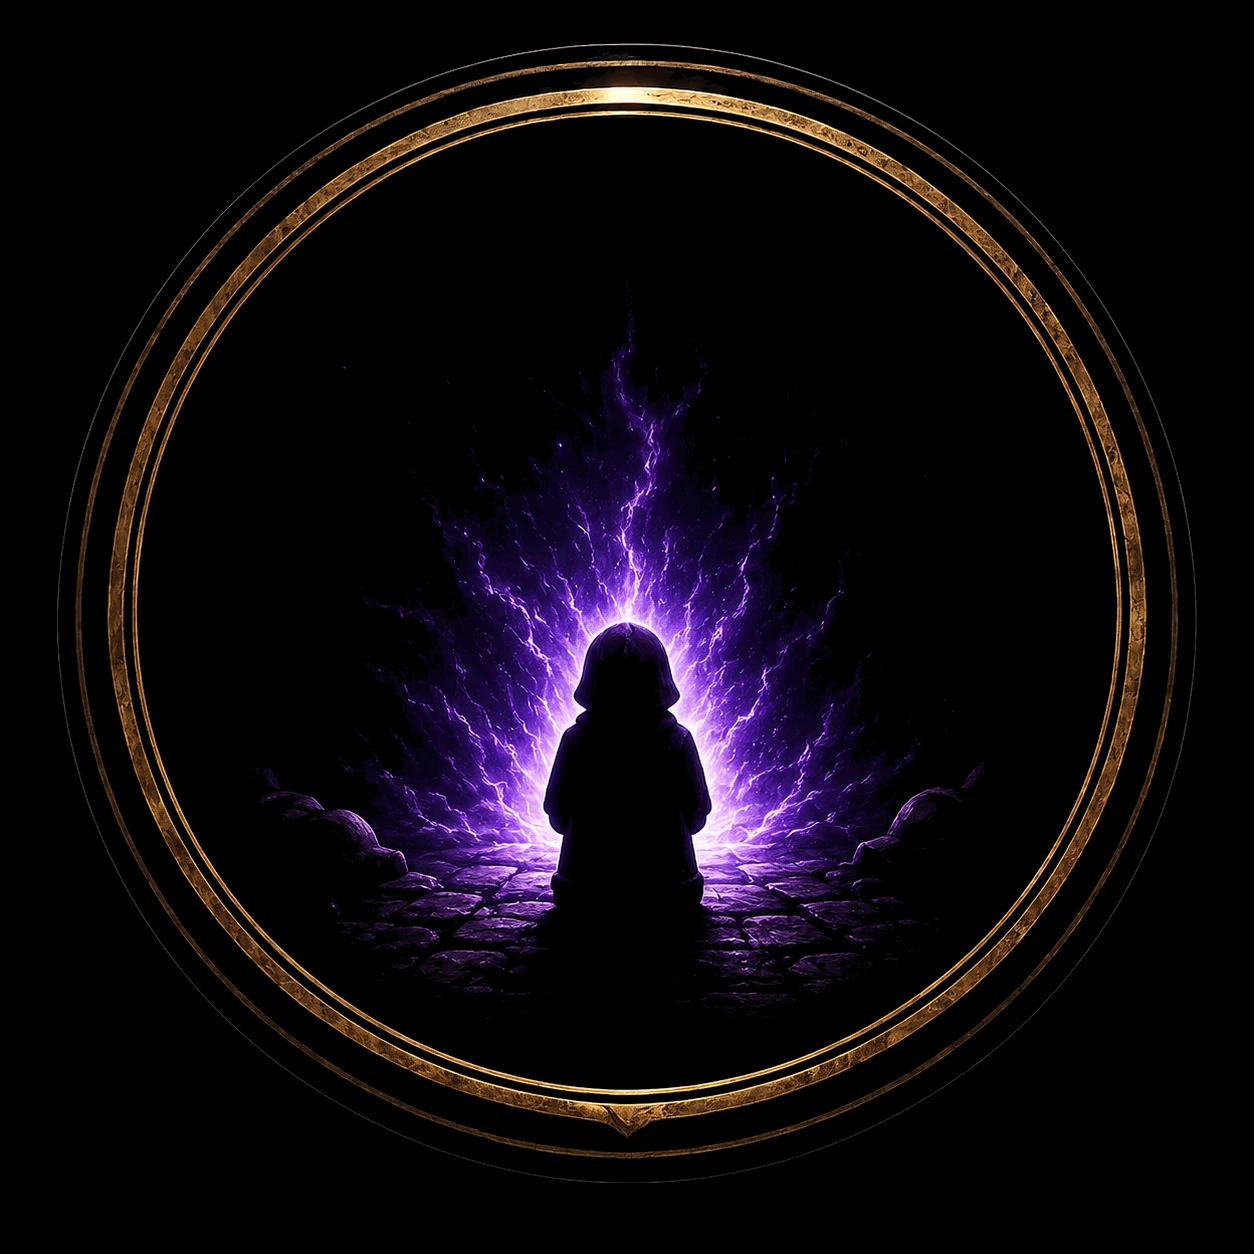
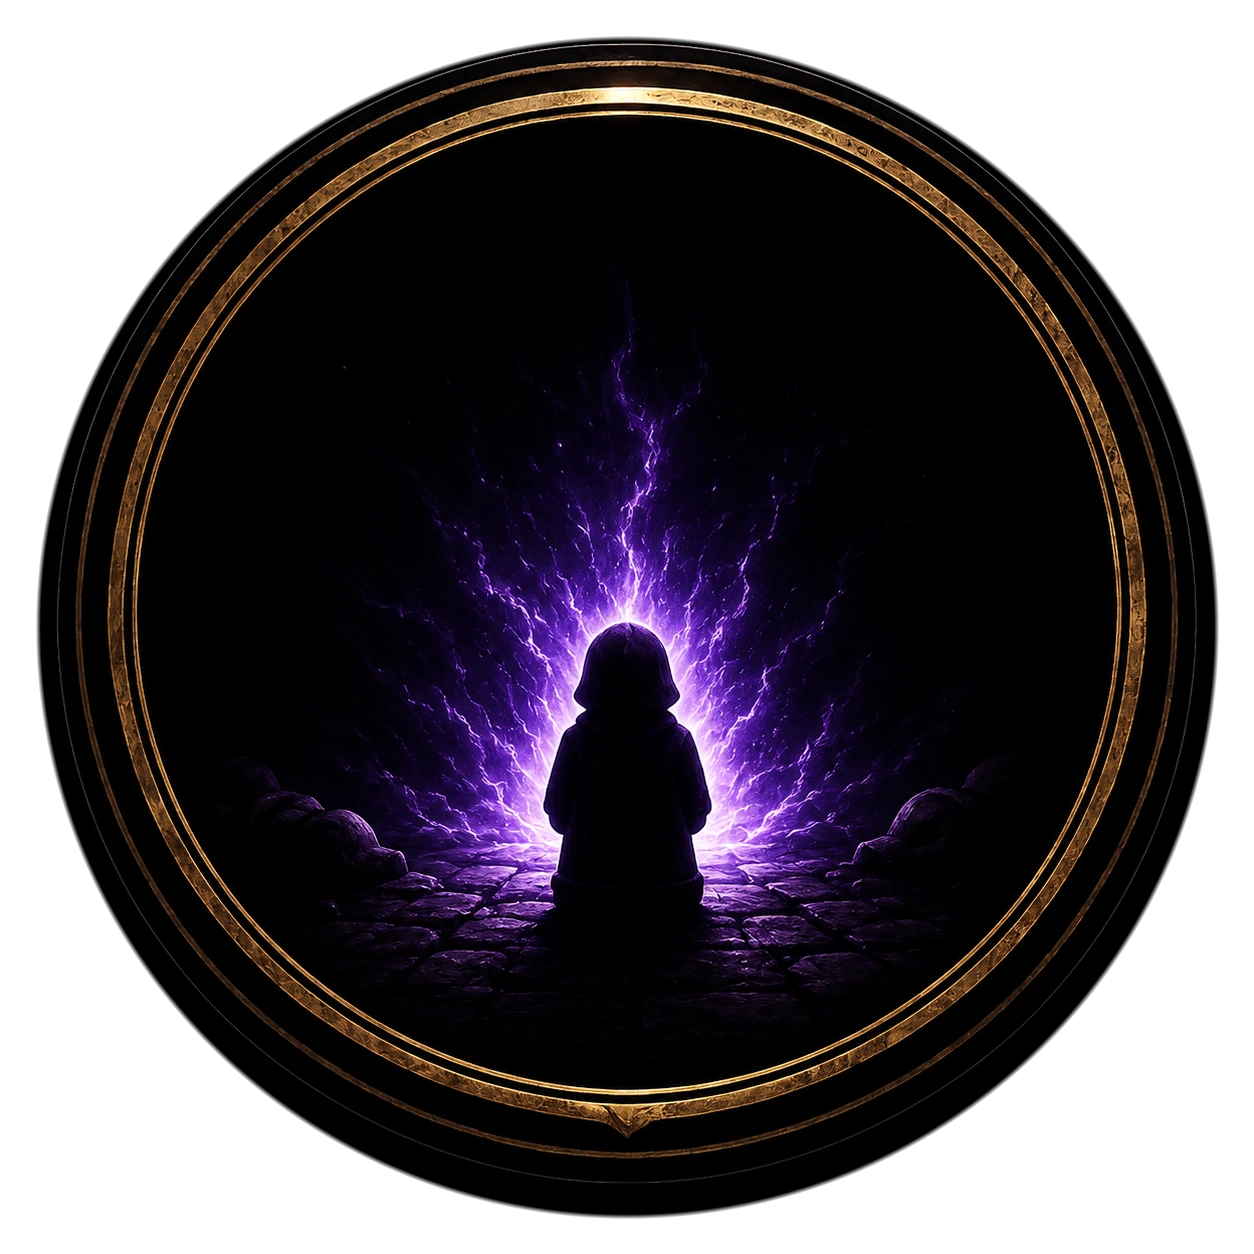
v0.36.3 Drei Schaerfungen am neuen Gewand: Das Zeichen im Kopfbereich ist jetzt RUND FREIGESTELLT - der Goldring wurde vermessen (Radius 589 von 627) und alles ausserhalb mit weichem Rand auf durchsichtig gesetzt, damit keine schwarzen Kanten mehr stehen; es traegt seinen eigenen violetten Schein st

diff --git a/src/app/ui/board/PieceGlyph.jsx b/src/app/ui/board/PieceGlyph.jsx
@@ -30,7 +30,8 @@ function HpDots({ hp, max, side = "left", palette = "life" }) {
       background: "rgba(6,10,16,.7)", borderRadius: 99, overflow: "hidden", pointerEvents: "none",
       boxShadow: "inset 0 0 0 0.5px rgba(255,255,255,.22), inset 0 1px 1px rgba(0,0,0,.5)" }}>
       <span style={{ display: "block", width: "100%", height: `${ratio * 100}%`, borderRadius: 99,
-        background: `linear-gradient(0deg, ${deep} 0%, ${col} 66%, rgba(255,255,255,.4) 100%)`, transition: "height .2s ease" }} />
+        background: `linear-gradient(0deg, ${deep} 0%, ${col} 62%, rgba(255,255,255,.55) 100%)`,
+        boxShadow: `0 0 4px ${col}, 0 0 8px ${col}66`, transition: "height .2s ease" }} />
     </span>;
   }
   const d = Math.min(0.075, 0.5 / Math.ceil(max / 2));
@@ -39,14 +40,18 @@ function HpDots({ hp, max, side = "left", palette = "life" }) {
     gap: "0.024em", pointerEvents: "none",
     filter: "drop-shadow(0 1px 1px rgba(0,0,0,.55))" }}>
     {Array.from({ length: max }).map((_, i) => (
-      <span key={i} style={{ width: `max(3.5px, ${d}em)`, height: `max(3.5px, ${d}em)`, borderRadius: "50%",
+      // ECHTE KUGELN statt flacher Punkte: ein enges Glanzlicht oben links,
+      // darunter die volle Farbe, unten der Schattenboden - und aussen ein
+      // Schein, der die Perle vom Brett abhebt. Leere Perlen bleiben dunkel,
+      // damit der Unterschied auf einen Blick zaehlt.
+      <span key={i} style={{ width: `max(4px, ${d}em)`, height: `max(4px, ${d}em)`, borderRadius: "50%",
         background: i < hp
-          ? `radial-gradient(circle at 32% 26%, #ffffffe8 0%, rgba(255,255,255,.28) 17%, ${col} 50%, ${deep} 100%)`
-          : "radial-gradient(circle at 32% 26%, rgba(255,255,255,.14) 0%, rgba(8,12,18,.78) 60%)",
+          ? `radial-gradient(circle at 34% 24%, #ffffff 0%, #ffffffcc 9%, ${col} 42%, ${col} 58%, ${deep} 88%, #000 100%)`
+          : "radial-gradient(circle at 34% 24%, rgba(255,255,255,.1) 0%, rgba(4,6,10,.9) 62%)",
         boxShadow: i < hp
-          ? `inset 0 0 0 0.5px rgba(255,255,255,.3), inset 0 -0.6px 1px ${deep}, 0 0 3px ${col}55`
-          : "inset 0 0 0 1px rgba(255,255,255,.12)",
-        transition: "background .2s ease" }} />
+          ? `inset 0 -0.9px 1.4px ${deep}, inset 0 0.5px 0.8px rgba(255,255,255,.5), 0 0 4px ${col}, 0 0 9px ${col}77`
+          : "inset 0 0 0 0.6px rgba(255,255,255,.16)",
+        transition: "background .2s ease, box-shadow .2s ease" }} />
     ))}
   </span>;
 }
@@ -91,22 +96,27 @@ function SpellStar({ size }) {
 // diameter and the same engraved numerals the old strip carried, for both
 // sides alike (the figure itself tells friend from foe).
 function StatDuo({ piece, focus, shrink = 1 }) {
-  const d = 0.375 * (focus ? 1.4 : 1) * shrink;  // orb diameter in em — a size up, numerals with it
+  const d = 0.405 * (focus ? 1.4 : 1) * shrink;  // orb diameter in em — a size up, numerals with it
   const gap = d * 0.045;                         // a hair apart — nearly kissing
   // the star promises an ACT: only castable (live) talents count — a piece
   // with purely passive gifts has nothing left to "use", so no star for it
   const spell = (piece.abilities || []).some((id) => ABILITIES[id]?.live) && Object.keys(piece.used || {}).length === 0;
-  const orb = (img, v) => <span style={{ width: d + "em", height: d + "em", display: "grid", placeItems: "center",
-      backgroundImage: `url(${img})`, backgroundSize: "100% 100%" }}>
+  // MEHR KUGEL, MEHR LICHT: Die Perlen sassen bisher stumpf auf dem Brett.
+  // Ein farbiger Schein hinter jeder Kugel hebt sie vom Feld ab, ein zweiter
+  // enger Schein gibt ihr Volumen - Rot fuer Lebenskraft, Blau fuer Kraft.
+  const schein = (art) => art === "life"
+    ? "drop-shadow(0 0 2px rgba(230,57,74,.95)) drop-shadow(0 0 6px rgba(230,57,74,.55)) drop-shadow(0 1px 1.5px rgba(0,0,0,.7))"
+    : "drop-shadow(0 0 2px rgba(74,163,232,.95)) drop-shadow(0 0 6px rgba(74,163,232,.55)) drop-shadow(0 1px 1.5px rgba(0,0,0,.7))";
+  const orb = (img, v, art) => <span style={{ width: d + "em", height: d + "em", display: "grid", placeItems: "center",
+      backgroundImage: `url(${img})`, backgroundSize: "100% 100%", filter: schein(art) }}>
     {/* same optical correction as the badges: the sphere sits high in its box */}
     <span style={{ ...numeralStyle(d * 0.6 + "em"),
       transform: `translate(${(ORB_TRUE_CENTER.x * d).toFixed(4)}em, ${(ORB_TRUE_CENTER.y * d).toFixed(4)}em)` }}>{v}</span>
   </span>;
   return <span style={{ position: "absolute", bottom: "-0.09em", left: "50%", transform: "translateX(-50%)", zIndex: 3,
-    display: "inline-flex", gap: gap + "em", pointerEvents: "none",
-    filter: "drop-shadow(0 1px 1.5px rgba(0,0,0,.55))" }}>
-    {orb(ORB.power, piece.atk)}
-    {orb(ORB.life, piece.hp)}
+    display: "inline-flex", gap: gap + "em", pointerEvents: "none" }}>
+    {orb(ORB.power, piece.atk, "power")}
+    {orb(ORB.life, piece.hp, "life")}
     {spell && <span style={{ position: "absolute", left: "50%", top: 0, transform: "translate(-50%, -58%)" }}>
       <SpellStar size={d * 0.72 + "em"} />
     </span>}

diff --git a/src/app/App.jsx b/src/app/App.jsx
@@ -22,7 +22,7 @@ import { Bar, Panel, Button, Chip } from "./ui/primitives.jsx";
 import { GameScreen, QuickSetup } from "./ui/screens/GameScreen.jsx";
 import { ArmyScreen } from "./ui/screens/ArmyScreen.jsx";
 import { CampaignScreen } from "./ui/screens/CampaignScreen.jsx";
-import { MysticBackground } from "./ui/MysticBackground.jsx";
+import { MysticBackground, RiftSeam } from "./ui/MysticBackground.jsx";
 import { TutorialScreen } from "./ui/screens/TutorialScreen.jsx";
 import { InstallBanner } from "./ui/InstallBanner.jsx";
 
@@ -359,7 +359,7 @@ export default function App() {
   const headerBar = (
     <div style={{ display: "flex", justifyContent: "space-between", alignItems: "center", gap: 10 }}>
       <img src={emblemArt()} alt="Grand Gambit" style={{ height: 34, display: "block", flex: "0 0 auto",
-        filter: "drop-shadow(0 0 6px rgba(240,200,110,.45))" }} />
+        filter: "drop-shadow(0 0 7px rgba(139,92,246,.55)) drop-shadow(0 0 14px rgba(124,58,237,.3))" }} />
       <div style={{ flex: 1 }} />
       {currencyRow}
     </div>
@@ -369,6 +369,7 @@ export default function App() {
     <div style={{ height: "calc(100dvh / var(--vhz, 1))", overflow: "hidden", display: "flex", flexDirection: "column", alignItems: "center", gap: 16,
       padding: immersive ? "10px 10px 10px" : "16px 18px 0", rowGap: immersive ? 10 : 22 }}>
       {!immersive && <MysticBackground league={profile?.campaign?.league || 1} />}
+      <RiftSeam />
       {showPrivacy && <PrivacyNotice t={t} dispatch={dispatch} />}
       {showIntro && <GameIntro t={t} dispatch={dispatch} onStart={() => { setTab("play"); setView("hub"); }} />}
       {teach && <TeachPopup which={teach} t={t} dispatch={dispatch} />}
@@ -381,7 +382,7 @@ export default function App() {
           borderRadius: 20, boxShadow: T.shadow, padding: "10px 16px",
           display: "flex", alignItems: "center", gap: 10 }}>
           <img src={emblemArt()} alt="Grand Gambit" style={{ height: 40, display: "block", flex: "0 0 auto", paddingRight: 6,
-            filter: "drop-shadow(0 0 7px rgba(240,200,110,.45))" }} />
+            filter: "drop-shadow(0 0 7px rgba(139,92,246,.55)) drop-shadow(0 0 14px rgba(124,58,237,.3))" }} />
           <div style={{ display: "flex", alignItems: "center", justifyContent: "center", gap: 4, flex: "1 1 auto", minWidth: 0 }}>{railItems}</div>
           {currencyRow}
         </aside>
@@ -403,6 +404,7 @@ export default function App() {
     <div style={{ maxWidth: 560, margin: "0 auto", height: "calc(100dvh / var(--vhz, 1))", overflow: "hidden", display: "flex", flexDirection: "column",
       ...(immersive ? { maxWidth: "none" } : {}) }}>
       {(!immersive || mapView) && !inMatch && <MysticBackground league={profile?.campaign?.league || 1} />}
+      {!inMatch && <RiftSeam />}
       {showPrivacy && <PrivacyNotice t={t} dispatch={dispatch} />}
       {showIntro && <GameIntro t={t} dispatch={dispatch} onStart={() => { setTab("play"); setView("hub"); }} />}
       {teach && <TeachPopup which={teach} t={t} dispatch={dispatch} />}

diff --git a/src/app/ui/MysticBackground.jsx b/src/app/ui/MysticBackground.jsx
@@ -33,6 +33,20 @@ const hauchFuer = (league) => {
   return `rgba(${r}, ${g}, ${b}, .55)`;
 };
 
+/** DER SAUM DES RISSES: ein violettes Leuchten laeuft aussen um den Schirm.
+ *  Es muss OBEN liegen, nicht im Hintergrund - dort verdecken es die Flaechen
+ *  der Oberflaeche, gemessen kam am aeussersten Rand exakt nichts an. Als
+ *  eigene Schicht mit hohem zIndex und ohne Mausannahme stoert es nichts und
+ *  ist ueberall sichtbar. Es atmet langsam, damit der Rand lebt statt blinkt. */
+export function RiftSeam() {
+  return <div aria-hidden style={{ position: "fixed", inset: 0, zIndex: 60, pointerEvents: "none",
+    boxShadow: "inset 0 0 70px 6px rgba(124,58,237,.34), inset 0 0 26px 0 rgba(167,139,250,.2)",
+    animation: "ggSaum 7s ease-in-out infinite" }}>
+    <div style={{ position: "absolute", inset: 0,
+      background: "linear-gradient(90deg, rgba(139,92,246,.22) 0%, transparent 11%, transparent 89%, rgba(139,92,246,.22) 100%)" }} />
+  </div>;
+}
+
 export function MysticBackground({ league = 1 }) {
   // the ember/smoke canvas is retired — the hall stands still and clear
 

diff --git a/src/app/ui/theme.js b/src/app/ui/theme.js
@@ -152,6 +152,7 @@ export const GLOBAL_CSS = `
      Viertel. Das war die harte Kante. Damit er vollstaendig hinauslaeuft,
      muss die linke Kante ueber 100 % kommen: 100/62 = 161 %. 175 % gibt Luft. */
   @keyframes ggPlateSheen { from { transform: translateX(-120%); } to { transform: translateX(175%); } }
+  @keyframes ggSaum { 0%, 100% { opacity: .72; } 50% { opacity: 1; } }
   @keyframes ggRiftOpen { from { transform: scale(1.09); opacity: 0; } 40% { opacity: .92; } to { transform: scale(1); opacity: .92; } }
   @keyframes ggRiftPulse { 0%, 100% { box-shadow: 0 0 9px rgba(124,58,237,.35); border-color: rgba(167,139,250,.55); }
     50% { box-shadow: 0 0 20px rgba(139,92,246,.65); border-color: rgba(196,181,253,.95); } }
